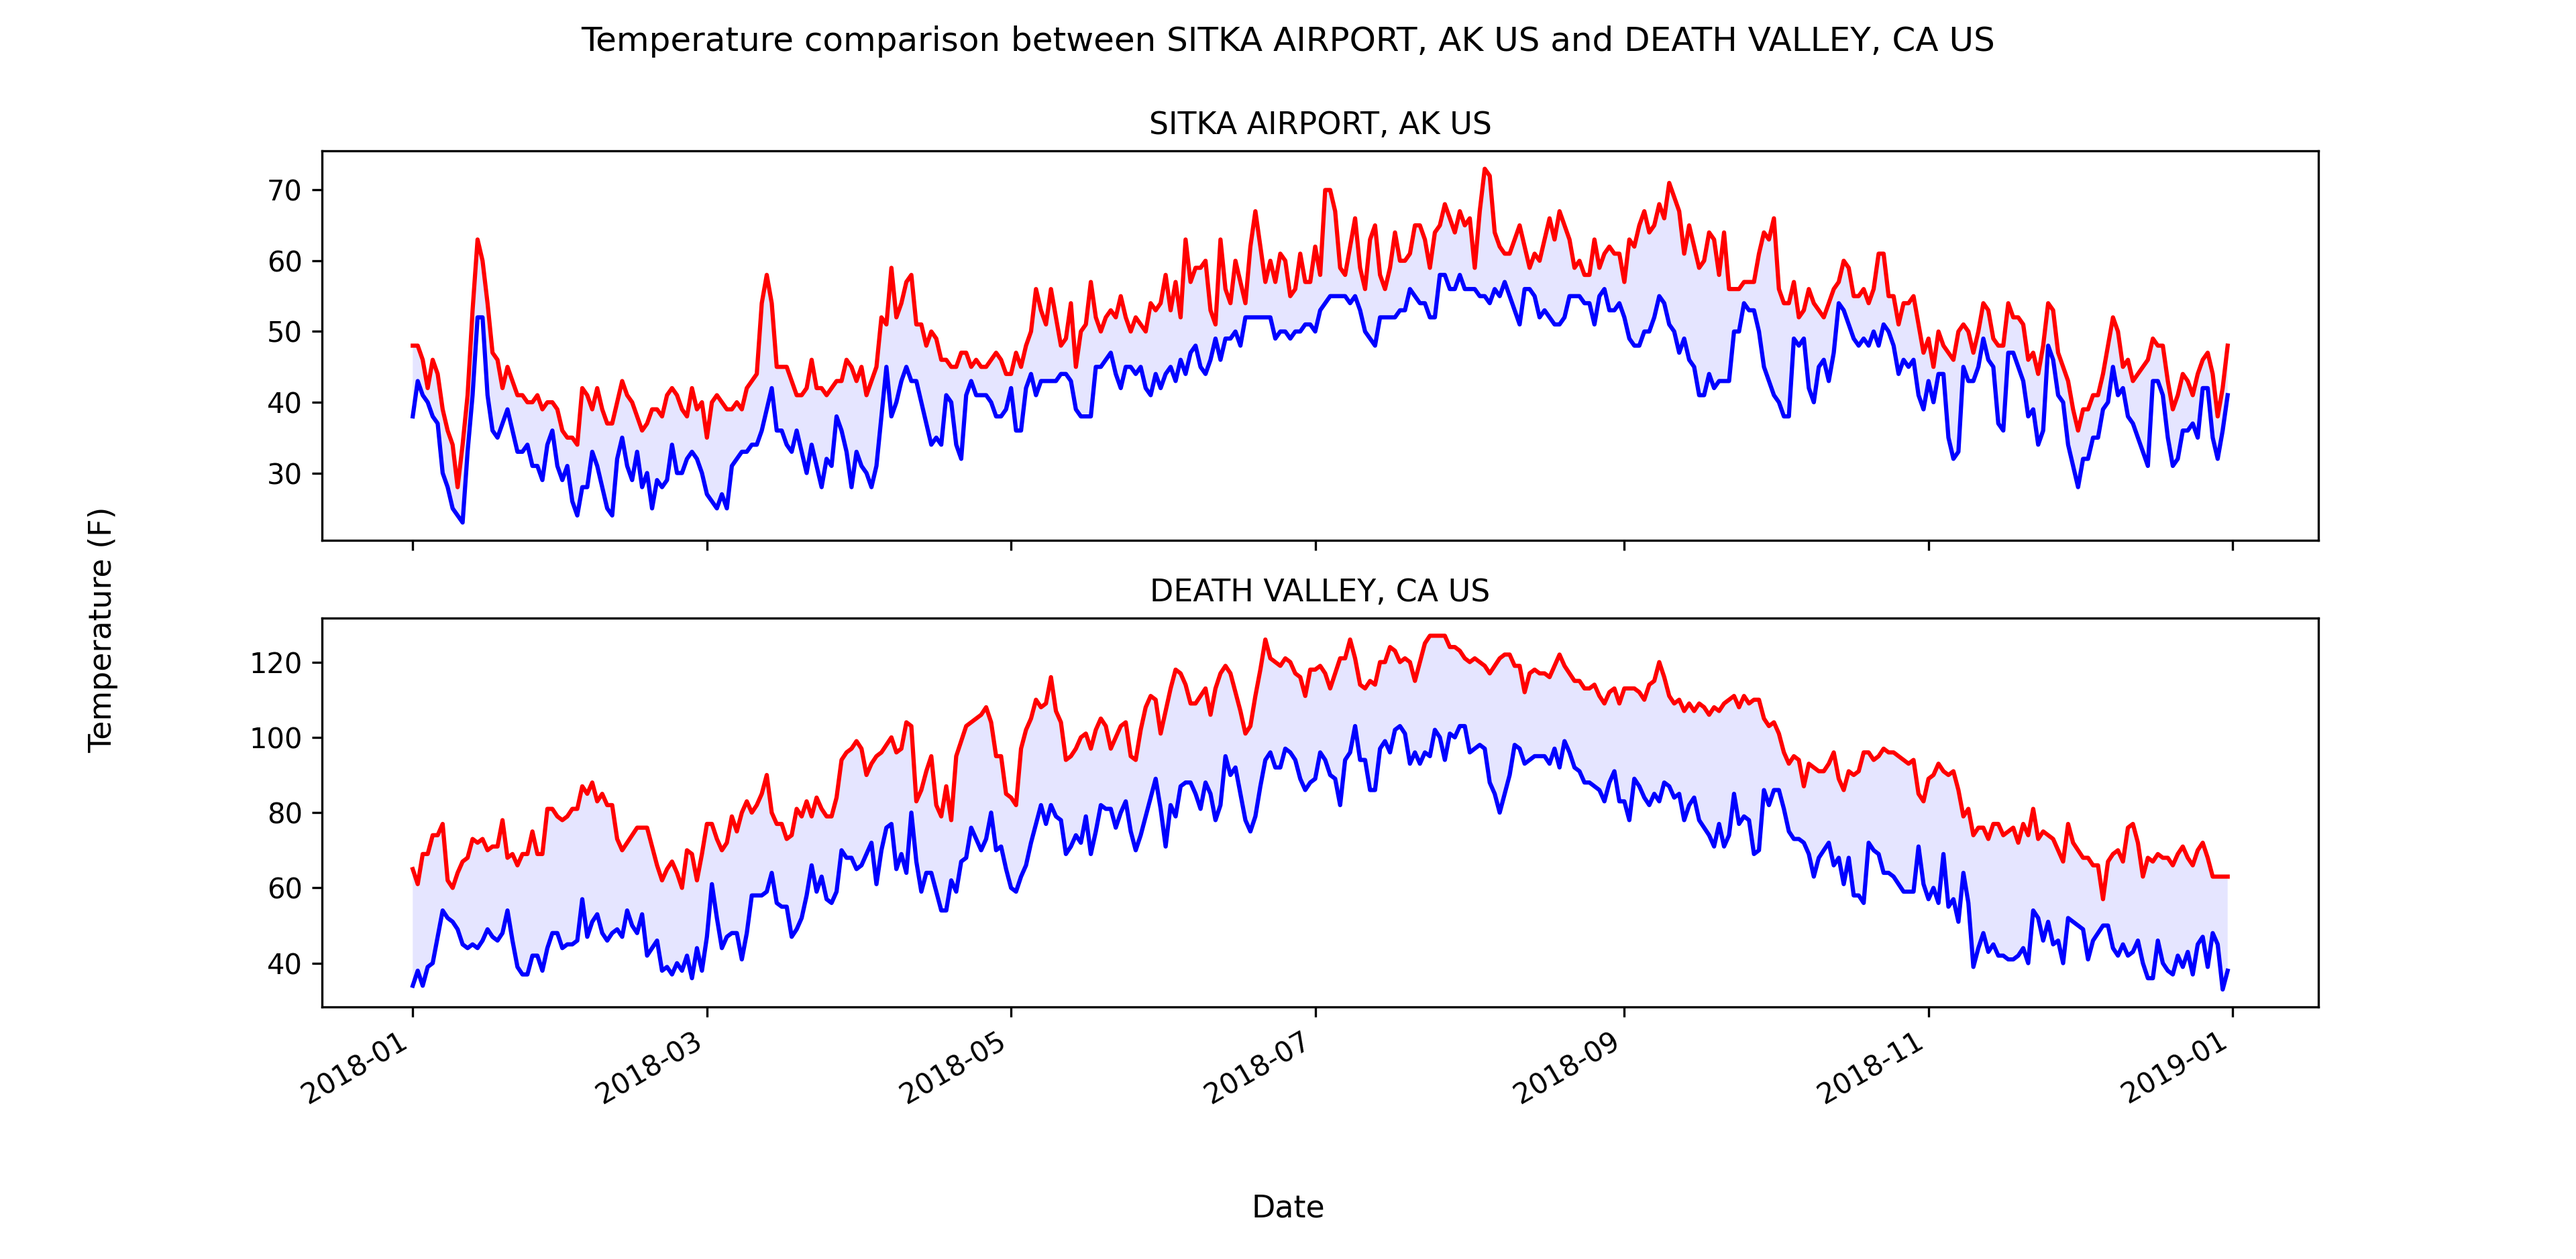
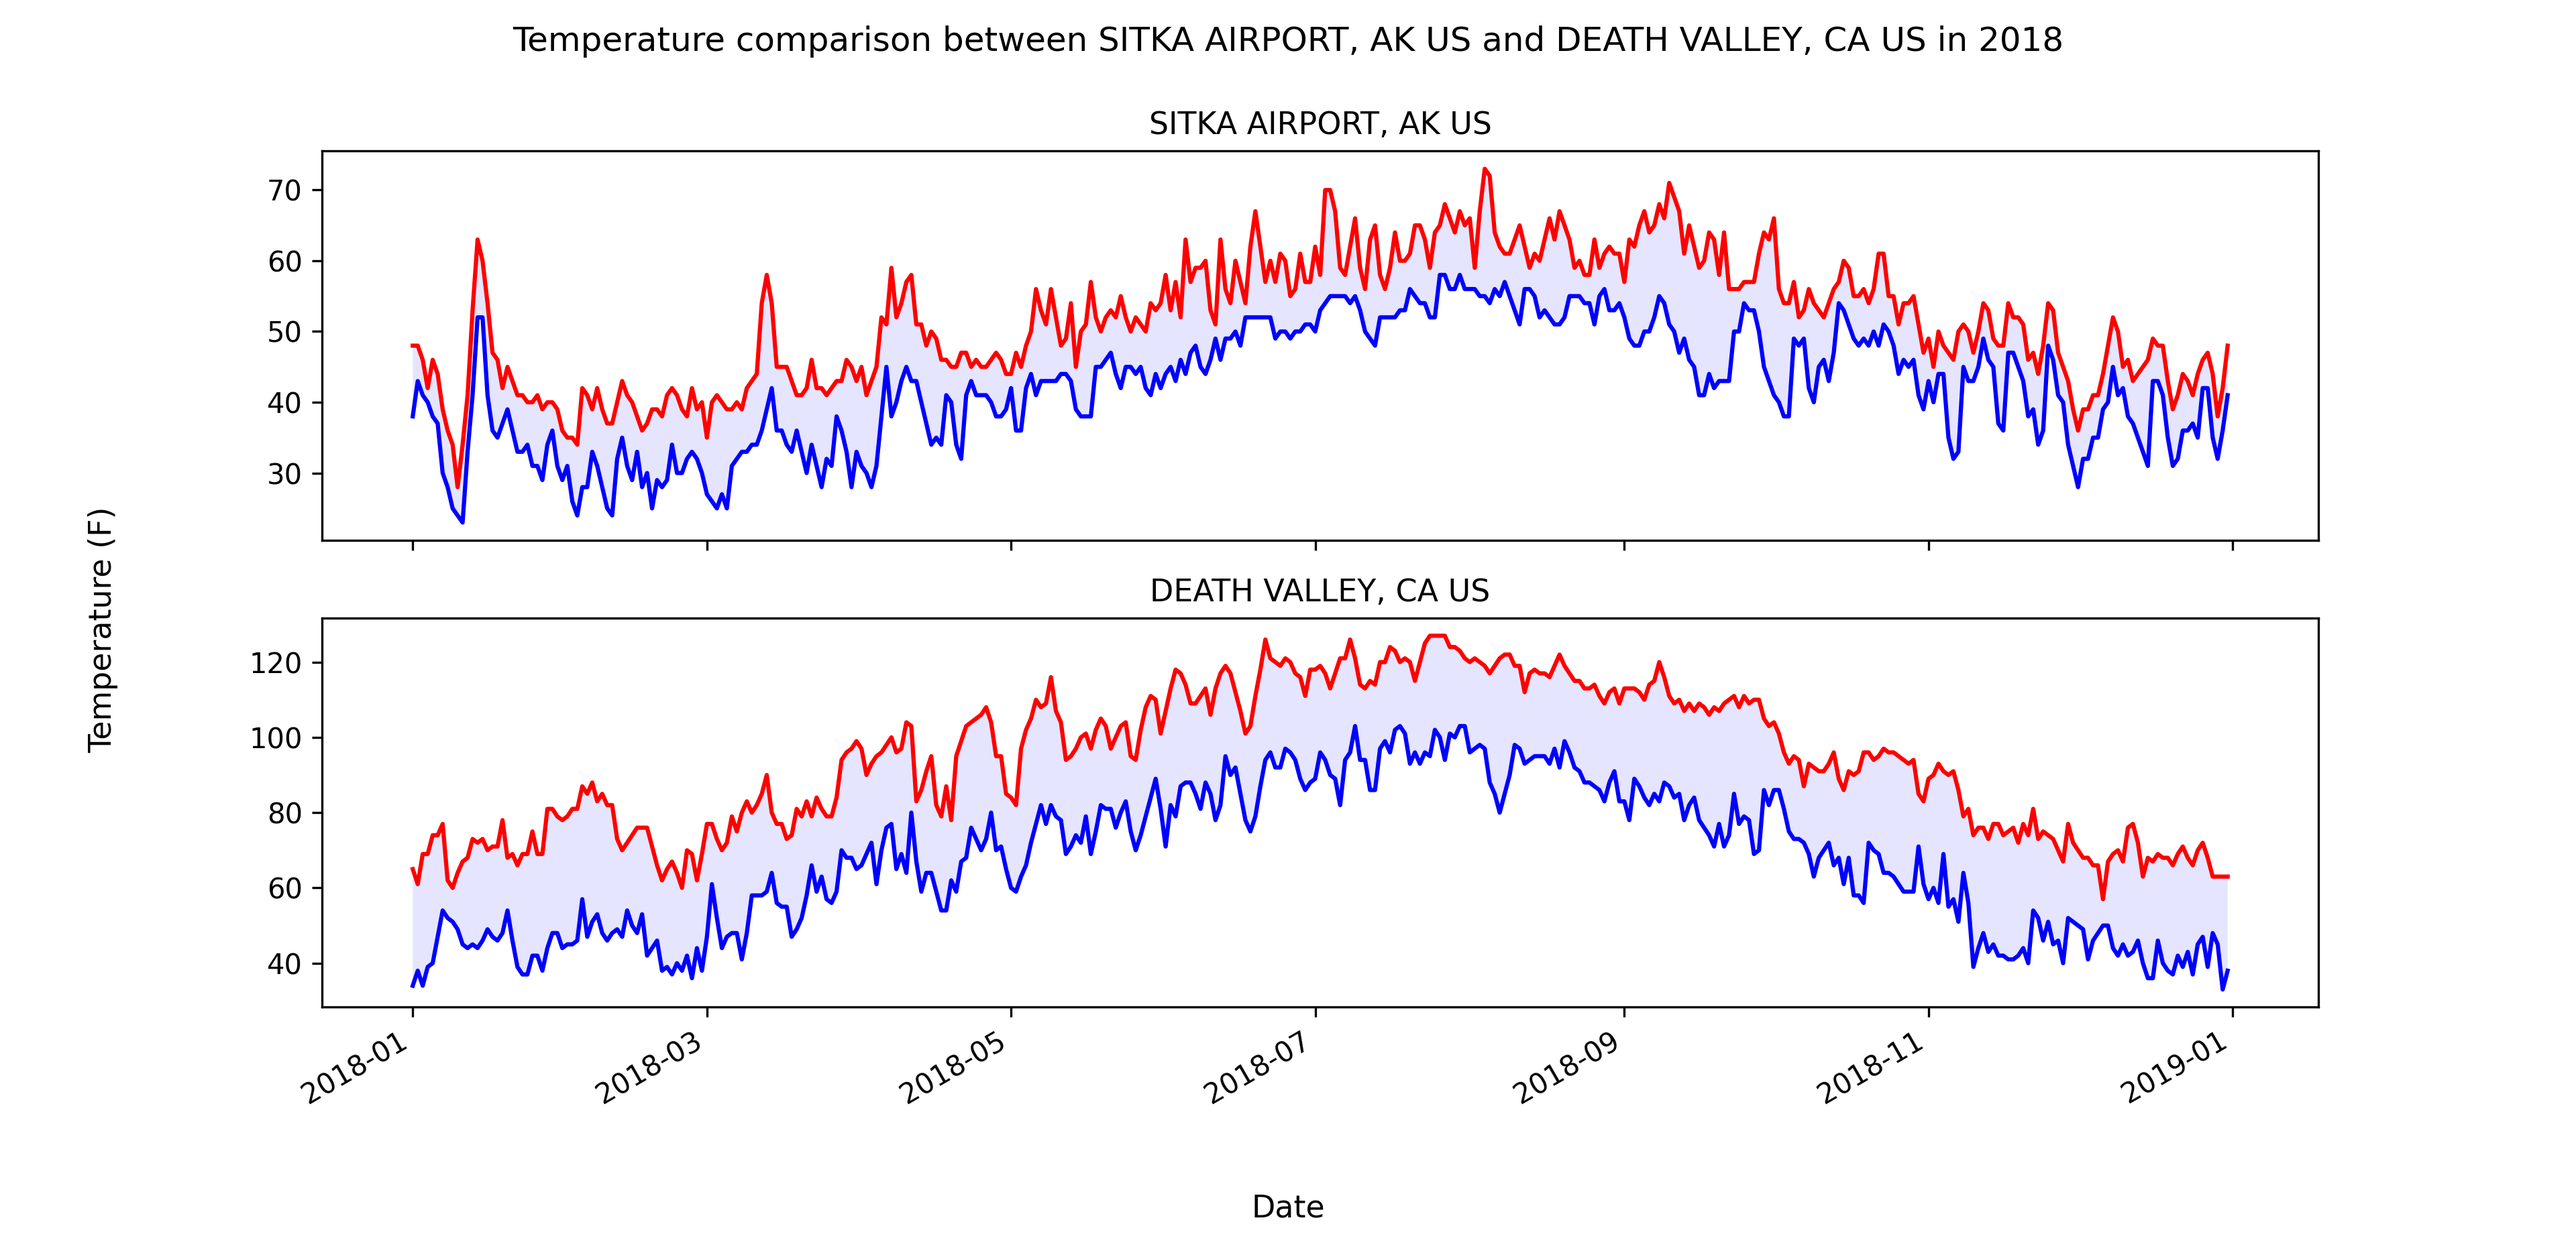
Edited main title

Changed region(s): [[0.2188, 0.0, 0.7812, 0.0618]]

diff --git a/sitka_and_death_valley.py b/sitka_and_death_valley.py
@@ -92,7 +92,7 @@ fig2.plot(death_valley_dates, death_valley_lows, c="blue")
 # Format the chart
 fig.autofmt_xdate()
 fig.suptitle(
-    f"Temperature comparison between {sitka_station} and {death_valley_station}",
+    f"Temperature comparison between {sitka_station} and {death_valley_station} in 2018",
     fontsize=12,
 )
 
